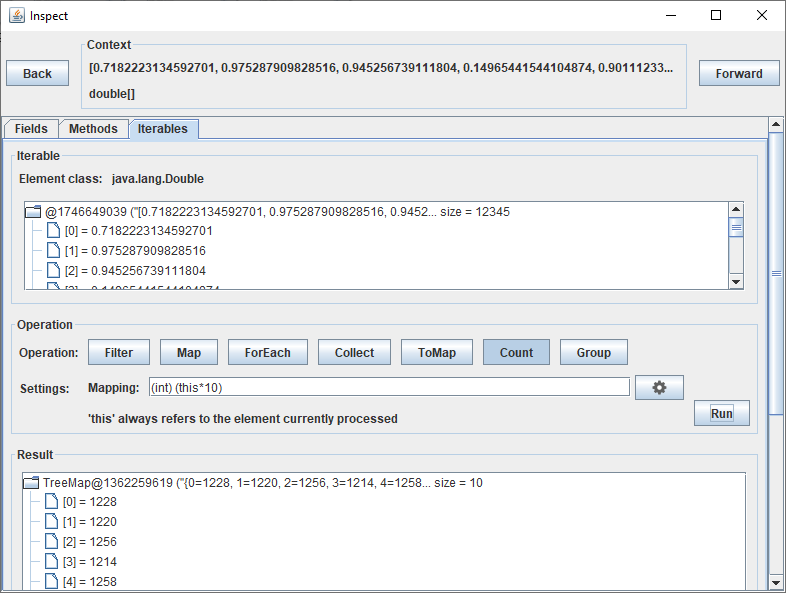
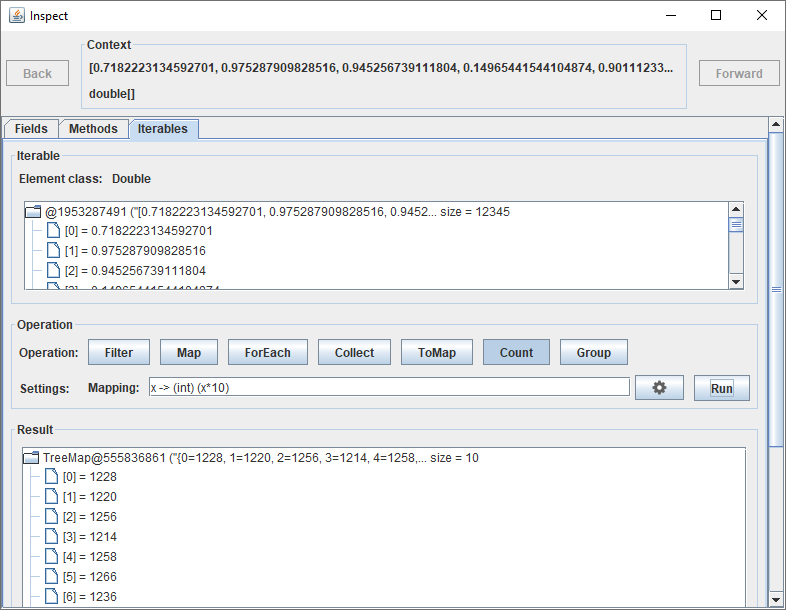
Updated changelog and readme

diff --git a/README.md b/README.md
@@ -6,7 +6,7 @@ Marple is a Swing-based Java library for analyzing Swing applications. Notable f
   - Highlighting of components referenced by fields
   - Analysis support for `Iterable`s, arrays, and `Map`s
   - Expression evaluation in the context of selected components
-  - An instance-based search
+  - Instance-based search
   - Support for data exchange with debuggers
 
 <!-- START doctoc generated TOC please keep comment here to allow auto update -->
@@ -427,16 +427,6 @@ The "Iterables" tab is only visible if the selected object is an `Iterable` or a
 
 ![Iterables Tab](images/inspection_dialog/iterables_tab.png)
 
-### Lambdas
-
-Zenodot, the library Marple uses to evaluate expressions, supports lambdas. However, due to the lack of type inference, implementing generic functional interfaces by a lambda is a bit tedious because you have to cast the parameters to the correct type when accessing them. This is why Marple uses a different notation for lambdas with one parameter for the "Iterables" tab: The body of the lambda is written as an expression or a statement expressed in terms of `this`. The keyword `this` refers to each element in the `Iterable`, one after another.
-
-*Examples:*
-
-  1. A predicate that checks whether an element is greater than 0.9 is written as `this > 0.9` (instead of `x -> x > 0.9`).
-  1. A function that maps an element to its String representation is written as `this.toString()` (instead of `x -> x.toString()` or `Object::toString`). Note that you can omit `this` in this case and simply write `toString()`.
-  1. A consumer that prints an element to the console is written as `System.out.println(this)` (instead of `x -> System.out.println(x)` or `System.out::println`).
-
 ### Filter
 
 You can specify an arbitrary predicate that is applicable to the elements of the `Iterable`. When pressing the "Run" button, the `Iterable` is filtered with this predicate and the result is displayed at the bottom.
@@ -463,7 +453,7 @@ You can specify an arbitrary (unary) function that is applicable to the elements
 
 ![Mapping Iterables](images/inspection_dialog/iterables_tab/map.png)
 
-In this example, each value is mapped to its square by using the expression `this*this`, which corresponds to the lambda `x -> x*x` in Java notation.  
+In this example, each value is mapped to its square.  
 
 ### ForEach
 
@@ -523,7 +513,7 @@ To resemble these in the "Iterables" tab, the following steps are required, assu
   1. Filter values that are greater than 0.999: <br/>   
   ![Step 1: Filter Values](images/inspection_dialog/iterables_tab/streaming/sample_1.png)   
 
-  1. Left-click onto the resulting `ArrayList` to use it as new context: <br/>  
+  1. Left-click onto the resulting `ArrayList` to use it as new context: <br/>
   ![Step 2: Select Filtered Result](images/inspection_dialog/iterables_tab/streaming/sample_2.png)
 
   1. Map values to the inverse cosine: <br/>    
@@ -541,15 +531,13 @@ The "Maps" tab is only visible if the selected object is a `Map`. This tab provi
 
 ![Maps Tab](images/inspection_dialog/maps_tab.png)
 
-All expressions have to be expressed in term of `this`. See [Lambdas](#lambdas) for details.
-
 ### Filter
 
 You can specify arbitrary predicates that are applicable to the keys or values of the `Map`, respectively. When pressing the "Run" button, the `Map` is filtered with these predicates and the result is displayed at the bottom:
 
 ![Filter](images/inspection_dialog/maps_tab/filter.png)
 
-In the previous example, a new map will be created with those entries whose keys exceed 0.6 and with values whose third character is not 9. Note that always both, keys and values, are filtered. If you only want to filter keys (values), then you can specify the filter expression `true` for the values (keys). 
+In the previous example, a new map will be created with those entries whose keys exceed 0.6 and with values whose third character is not 9. Note that always both, keys and values, are filtered. If you only want to filter keys (values), then you can specify the filter expression `x -> true` for the values (keys). 
 
 ### Map
 
@@ -557,7 +545,7 @@ You can specify arbitrary (unary) functions that are applicable to the keys and 
 
 ![Map](images/inspection_dialog/maps_tab/map.png)
 
-In the example above, a new map will be created with the squares of the original keys as new keys and the lengths of the original values as new values. Note that always both, keys and values, are mapped. If you only want to map keys (values), then you can specify the mapping expression `this` for the values (keys).
+In the example above, a new map will be created with the squares of the original keys as new keys and the lengths of the original values as new values. Note that always both, keys and values, are mapped. If you only want to map keys (values), then you can specify the mapping expression `x -> x` for the values (keys).
 
 # Evaluation Dialog
 

diff --git a/changelog.md b/changelog.md
@@ -4,6 +4,7 @@
 
   - switched to Zenodot 0.3 (lambda support, new evaluation mode "mixed typing" that is similar to dynamic typing, but without side effects, accessing the field "length" of arrays)
   - made new evaluation mode "mixed typing" the default evaluation mode
+  - removed Marple workaround for specifying lambdas
   - improved display of lists
   - added possibility to provide an initial expression and to suggest related objects when evaluating certain objects
   - added expression evaluation history
